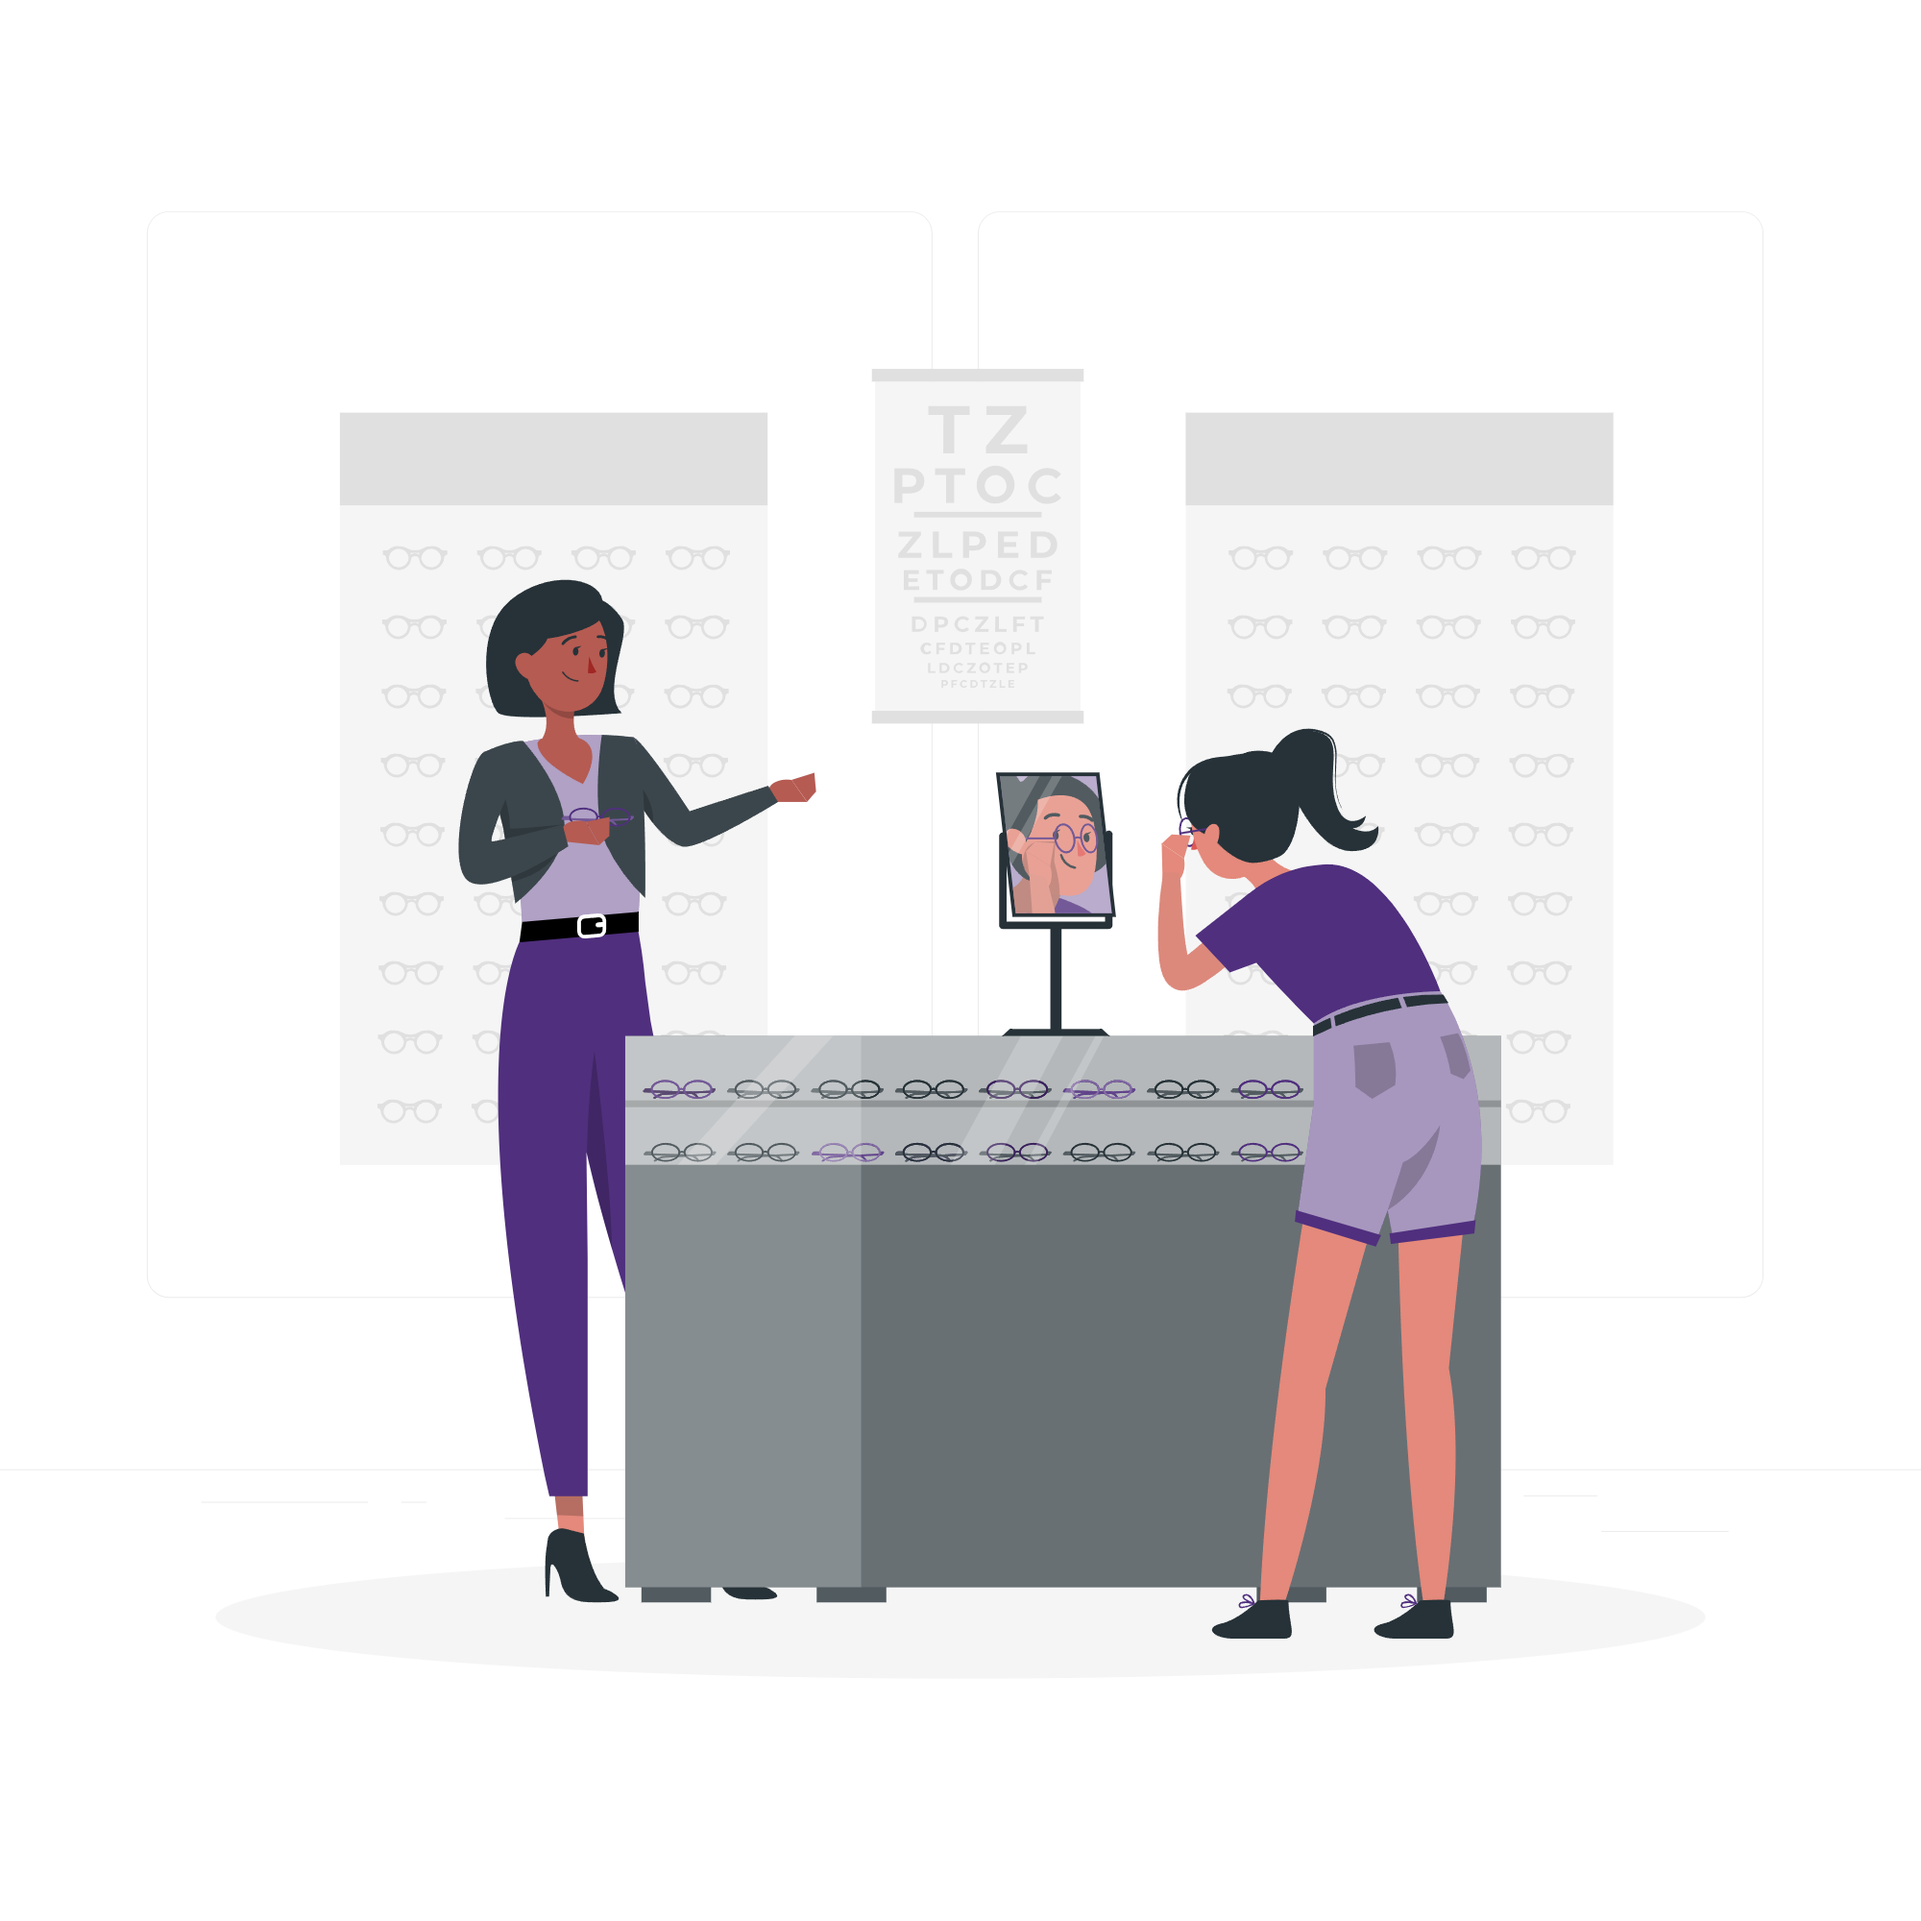
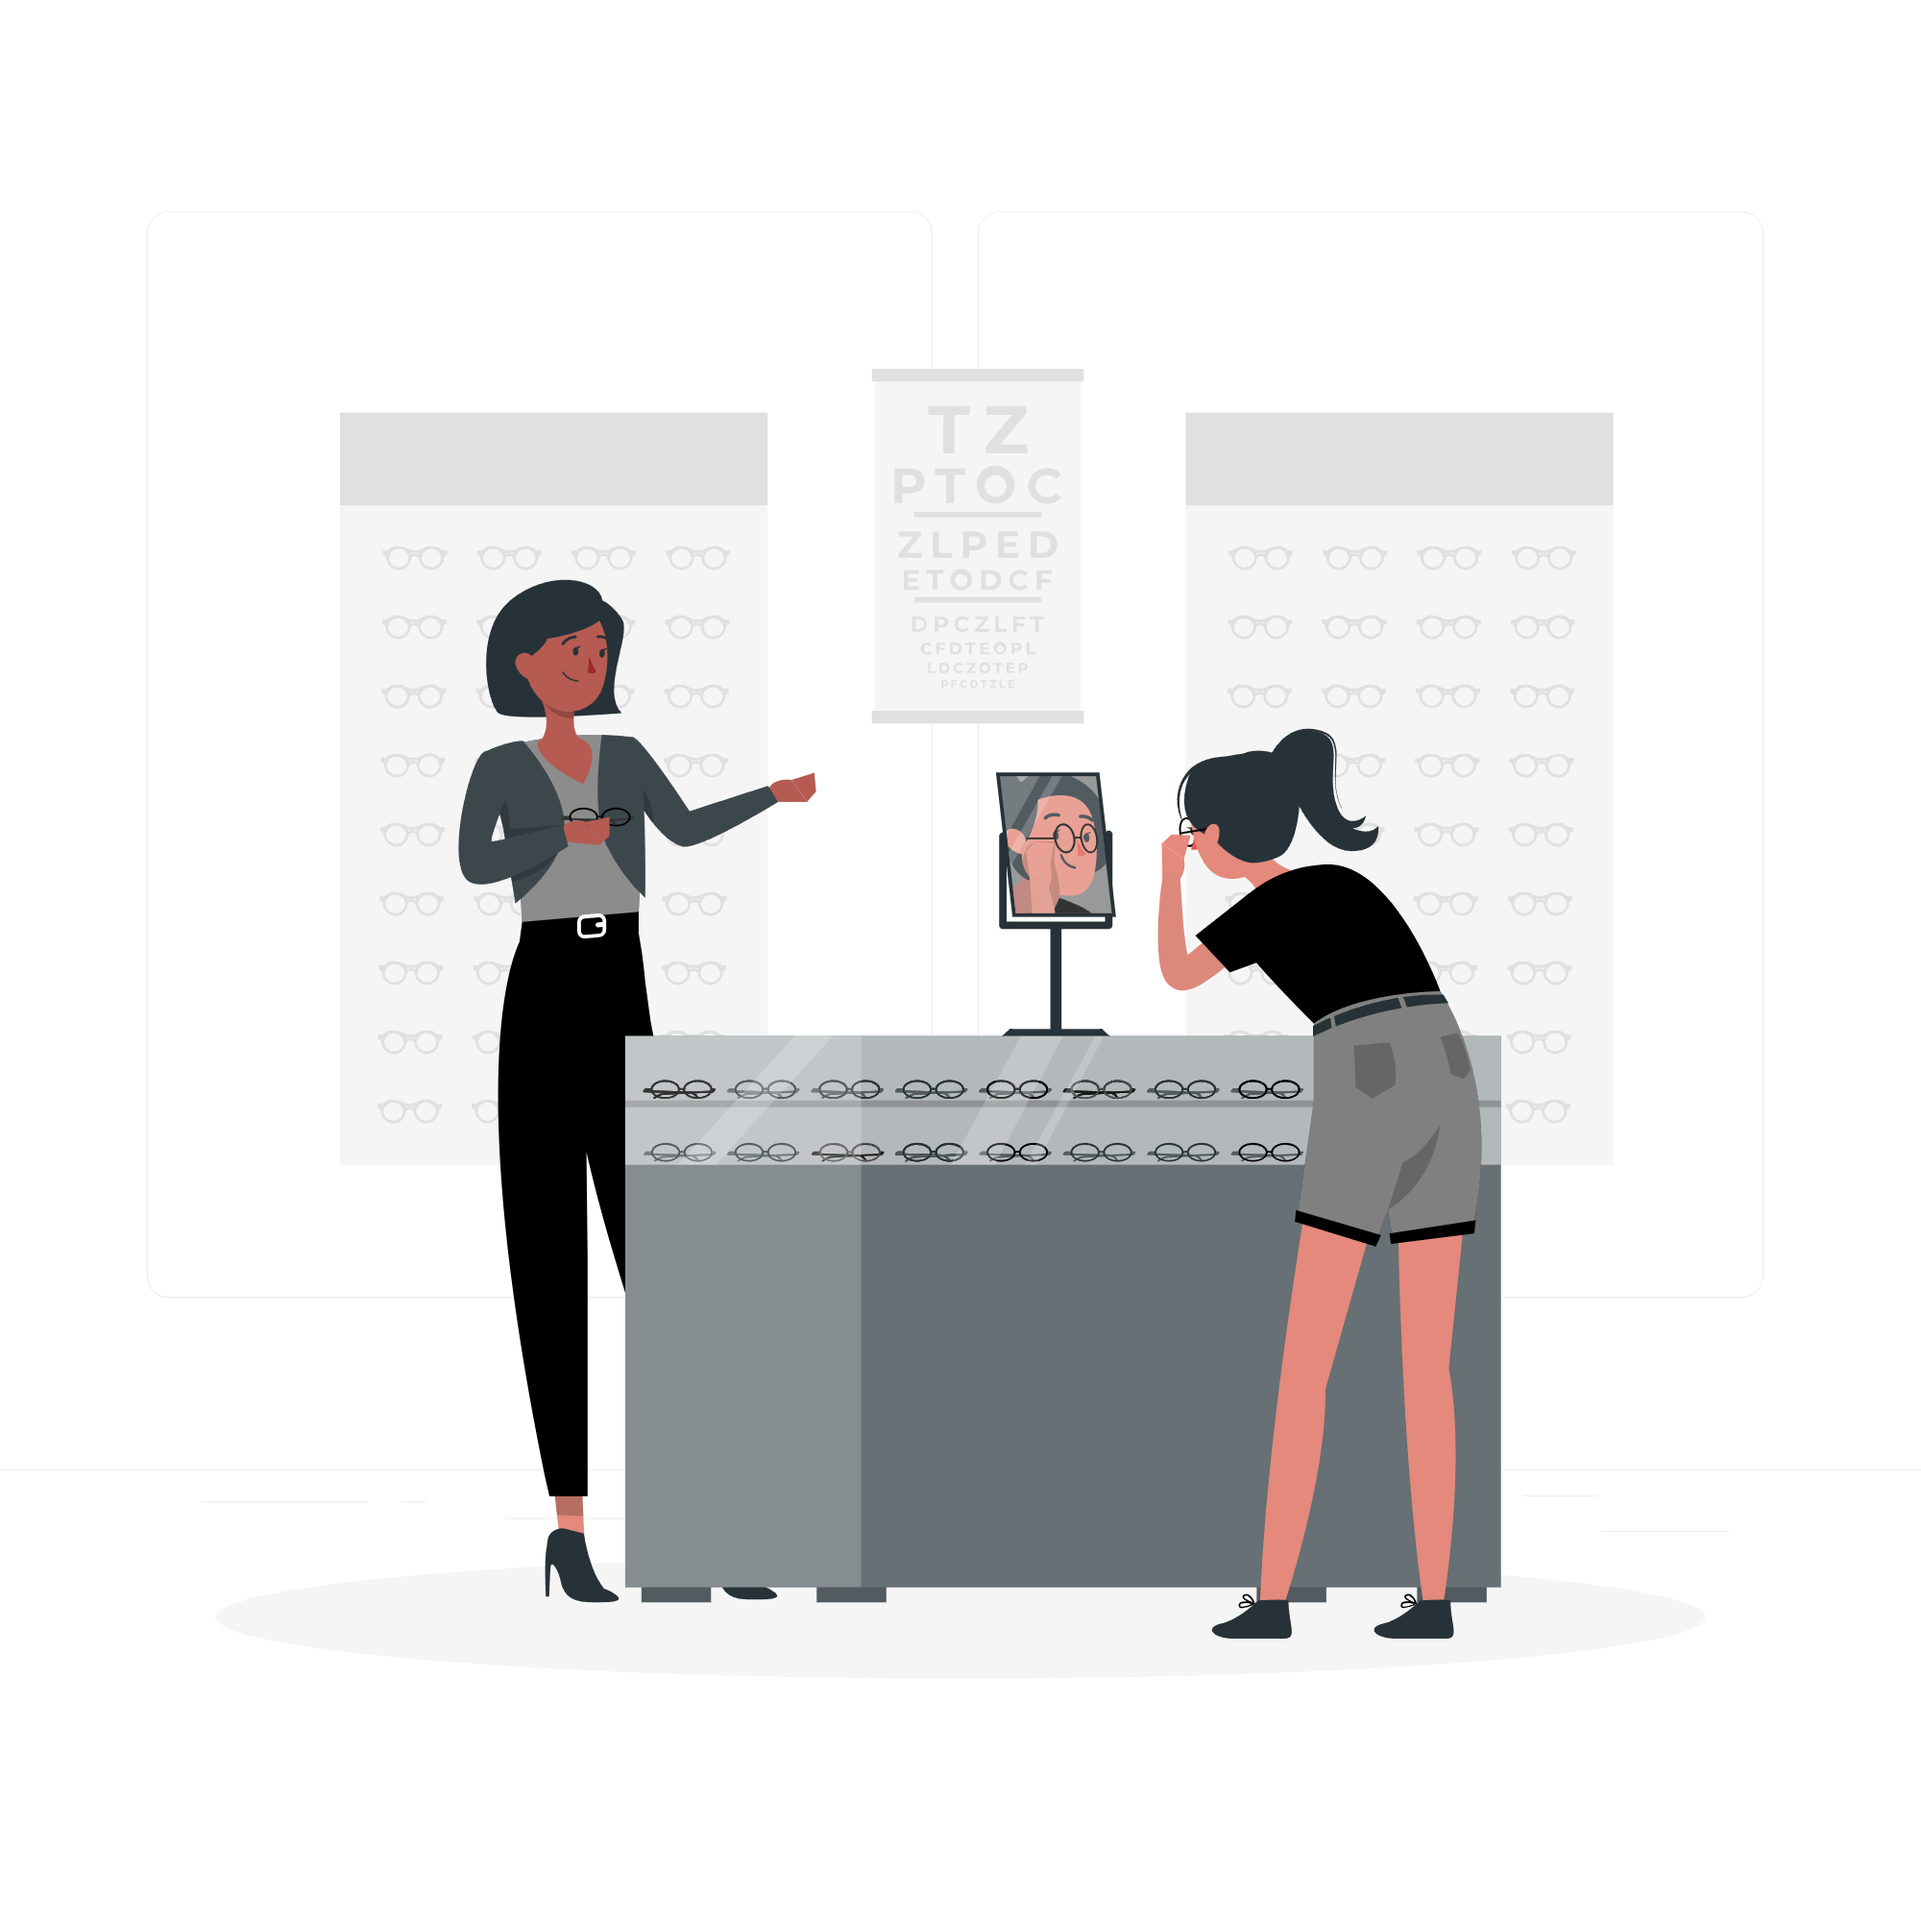
sales launch and design change

diff --git a/src/screens/home.js b/src/screens/home.js
@@ -1,44 +1,92 @@
-import React, { useEffect } from 'react';
-import { View, Image, StyleSheet, SafeAreaView, TouchableOpacity, ActivityIndicator } from 'react-native';
-import { getDBConnection } from '../services/database';
-import { useNavigation } from '@react-navigation/native';
+import React, { useState, useEffect } from 'react';
+import { View, Image, StyleSheet, SafeAreaView, TouchableOpacity, ActivityIndicator, Alert } from 'react-native';
+import { adicionarVenda, getDBConnection, obterIdMetaAtual, obterMetaComVendas } from '../services/database';
 import { Text } from 'react-native-gesture-handler';
 import colors from '../styles/colors';
-import NavigationBottom from '../components/navigationBottom'
-import { BottomTabBar } from '@react-navigation/bottom-tabs';
-import OpticalSet, { opticalSet } from '../components/opticalSet'
 
 export default function home({ }) {
-    return (
-        <SafeAreaView style={styles.container}>
-            <View style={styles.navbar} />
-            <View style={styles.card}>
-                <Text style={styles.cardTitle}>Resumo do Mês</Text>
-                <Text style={styles.cardItem}>Total: 10</Text>
-                <Text style={styles.cardItem}>Meta: 120</Text>
-                <Image source={require('../../assets/target.png')} style={styles.image} />
-            </View>
+   const [meta, setMeta] = useState({ id: null, quantidade: 0, totalVendas:0 });
+   const [mesAtual, setMesAtual] = useState('');
+   const [anoAtual, setAnoAtual] = useState(0);
+   const [mesNumero, setMesNumero] = useState('');
 
-            <Image source={require('../../assets/optical.png')} style={styles.opticalImage} />
+   useEffect(() => {
+       const date = new Date();
+       const meses = [
+           'Janeiro', 'Fevereiro', 'Março', 'Abril', 'Maio', 'Junho',
+           'Julho', 'Agosto', 'Setembro', 'Outubro', 'Novembro', 'Dezembro',
+       ];
+       setMesAtual(meses[date.getMonth()]);
+       setMesNumero((date.getMonth() + 1).toString());
+       setAnoAtual(date.getFullYear());
+   }, []);
 
-            {/* <OpticalSet style={{ flex: 1 }} /> */}
+   useEffect(() => {
+  
+       buscarMeta();
+   }, [mesNumero, anoAtual]);
 
-            <TouchableOpacity style={styles.button} >
-                <Text style={styles.buttonText}>Nova Venda</Text>
-            </TouchableOpacity>
-        </SafeAreaView>
-    )
+        const buscarMeta = async () => {
+           if (mesNumero && anoAtual) {
+               try {
+                   const db = await getDBConnection();
+                   const metaAtual = await obterMetaComVendas(db, mesNumero, anoAtual);
+                   setMeta(metaAtual);
+               } catch (error) {
+                   console.log('Erro ao buscar meta:', error);
+                   setMeta({ id: null, quantidade: 0 });
+               }
+           }
+       };
+
+   const handleNovaVenda = async () => {
+       try {
+           if (!meta.id) {
+               Alert.alert('Erro', 'Meta não encontrada para este mês');
+               return;
+           }
+           const db = await getDBConnection();
+           await adicionarVenda(db, meta.id);
+           Alert.alert('Nova venda adicionada com sucesso!');
+           buscarMeta()
+       } catch(err) {
+           console.log(err);
+           Alert.alert('Erro', 'Não foi possível adicionar a venda');
+       }
+   }
+
+   return (
+       <SafeAreaView style={styles.container}>
+           <View style={styles.card}>
+               <Text style={styles.cardTitle}>Resumo do Mês</Text>
+               <Text style={styles.cardItem}>Receitas: {meta.totalVendas}</Text>
+               <Text style={styles.cardItem}>Meta atual: {meta.quantidade}</Text>
+               <Text style={styles.cardItemPendente}>Pendente: {Math.max(0, meta.quantidade - meta.totalVendas)}</Text>
+               <Image source={require('../../assets/target.png')} style={styles.image} />
+           </View>
+
+           <Image source={require('../../assets/optical.png')} style={styles.opticalImage} />
+
+           <TouchableOpacity style={styles.button} onPress={handleNovaVenda} >
+               <Text style={styles.buttonText}>Registrar Venda</Text>
+           </TouchableOpacity>
+       </SafeAreaView>
+   )
 }
 
 const styles = StyleSheet.create({
     container: {
         flex: 1,
         backgroundColor: '#fff',
-        alignContent: 'center'
+        alignContent: 'center',
+        justifyContent: 'space-between',
     },
     card: {
-        backgroundColor: colors.purple_primary,
-        margin: 16,
+        backgroundColor: colors.black_primary,
+        marginLeft: 16,
+        marginBottom:16,
+        marginRight: 16,
+        marginTop: 10,
         borderRadius: 12,
         padding: 16,
         elevation: 2,
@@ -58,6 +106,12 @@ const styles = StyleSheet.create({
         marginBottom: 8,
         color: '#fff',
     },
+    cardItemPendente: {
+        fontSize: 14,
+        fontStyle: "italic",
+        marginBottom: 1,
+        color: '#fff',
+    },
     image: {
         width: 85,
         height: 85,
@@ -67,11 +121,11 @@ const styles = StyleSheet.create({
     },
     button: {
         margin: 16,
-        backgroundColor: colors.purple_primary,
+        backgroundColor: colors.black_primary,
         paddingVertical: 12,
         borderRadius: 12,
         alignItems: 'center',
-        top: '20%'
+        bottom: '0%'
     },
     opticalImage: {
         width: 300,

diff --git a/src/components/navigationBottom.js b/src/components/navigationBottom.js
@@ -1,15 +1,56 @@
 import { createBottomTabNavigator } from "@react-navigation/bottom-tabs";
+import Icon from 'react-native-vector-icons/Ionicons';
 import home from "../screens/home";
 import targetRegister from "../screens/targetRegister";
+import colors from "../styles/colors";
 
 const { Navigator, Screen } = createBottomTabNavigator();
 
 export function NavigationBottom(){
-
     return(
-        <Navigator screenOptions={{headerShown: false}}>
-            <Screen component = {home} name="Meta atual"/> 
-            <Screen component={targetRegister} name="Relatório"/>
+        <Navigator 
+            screenOptions={{
+                headerShown: false,
+                tabBarActiveTintColor: colors.black_primary, 
+                tabBarInactiveTintColor: '#9CA3AF',
+                tabBarStyle: {
+                    backgroundColor: '#FFFFFF',
+                    borderTopWidth: 1,
+                    borderTopColor: '#E5E7EB',
+                    height: 60,
+                },
+                tabBarLabelStyle: {
+                    fontSize: 12,
+                    fontWeight: '600',
+                },
+            }}
+        >
+            <Screen 
+                component={home} 
+                name="Meta atual"
+                options={{
+                    tabBarIcon: ({ focused, color, size }) => (
+                        <Icon 
+                            name={focused ? 'home' : 'home-outline'} 
+                            size={size} 
+                            color={color} 
+                        />
+                    ),
+                }}
+            /> 
+            <Screen 
+                component={targetRegister} 
+                name="Relatório"
+                options={{
+                    tabBarIcon: ({ focused, color, size }) => (
+                        <Icon 
+                            name={focused ? 'bar-chart' : 'bar-chart-outline'} 
+                            size={size} 
+                            color={color} 
+                        />
+                    ),
+                }}
+            />
         </Navigator>
     )
 }

diff --git a/src/services/database.js b/src/services/database.js
@@ -7,15 +7,25 @@ export const getDBConnection = async () => {
 };
 
 export const createTables = async (db) => {
-  await db.executeSql(`
-    CREATE TABLE IF NOT EXISTS meta (
+  const queries = [
+    `CREATE TABLE IF NOT EXISTS meta (
       id INTEGER PRIMARY KEY AUTOINCREMENT,
       mes TEXT NOT NULL,
       nome TEXT NOT NULL,
       ano INTEGER NOT NULL,
       quantidade INTEGER NOT NULL
-    );
-  `);
+    );`,
+    `CREATE TABLE IF NOT EXISTS venda (
+      id INTEGER PRIMARY KEY AUTOINCREMENT,
+      idMeta INTEGER,
+      dataVenda DATETIME DEFAULT CURRENT_TIMESTAMP,
+      FOREIGN KEY (idMeta) REFERENCES meta (id)
+    );`
+  ];
+
+  for (const query of queries) {
+    await db.executeSql(query);
+  }
 };
 
 export async function getTargetInOpen(db, mes, ano) {
@@ -31,9 +41,40 @@ export async function getTargetInOpen(db, mes, ano) {
   }
 }
 
+
+export async function obterMetaComVendas(db, mes, ano) {
+  try {
+    const [result] = await db.executeSql(
+      'SELECT id, quantidade, (SELECT COUNT(id) FROM venda WHERE idMeta = meta.id) as venda FROM meta WHERE mes = ? AND ano = ? LIMIT 1',
+      [mes.toString(), ano]
+    );
+    
+    if (result.rows.length > 0) {
+      const meta = result.rows.item(0);
+      return {
+        id: meta.id,
+        quantidade: meta.quantidade,
+        totalVendas: meta.venda
+      };
+    } else {
+      throw new Error('Meta não encontrada');
+    }
+  } catch (error) {
+    console.error('Erro ao buscar meta:', error);
+    throw error; 
+  }
+}
+
 export async function inserirMeta(db, { mes, nome, ano, quantidade }) {
     await db.executeSql(
     'INSERT INTO meta (mes, nome, ano, quantidade) VALUES (?, ?, ?, ?)',
     [mes, nome, ano, quantidade]
   );
+}
+
+export async function adicionarVenda(db, idMeta) {
+ await db.executeSql(
+   "INSERT INTO venda (idMeta, dataVenda) VALUES (?, datetime('now', 'localtime'));",
+   [idMeta]
+ );
 }

diff --git a/src/screens/targetRegister.js b/src/screens/targetRegister.js
@@ -12,11 +12,7 @@ import {
 } from 'react-native';
 import LinearGradient from 'react-native-linear-gradient';
 import { useNavigation } from '@react-navigation/native';
-import {
-    getDBConnection,
-    createTables,
-    inserirMeta,
-} from '../services/database';
+import { getDBConnection, createTables, inserirMeta } from '../services/database';
 import color from '../styles/colors'
 
 export default function targetRegister() {
@@ -72,10 +68,10 @@ export default function targetRegister() {
             style={styles.container}
             behavior={Platform.OS === 'ios' ? 'padding' : undefined}>
 
-            <LinearGradient colors={[color.purple_primary, color.purple_primary]} style={styles.header} />
+            <LinearGradient colors={[color.black_primary, color.black_primary]} style={styles.header} />
 
             <Text style={styles.monthText}>{mesAtual}</Text>
-            <Text style={styles.infoText}>Informações da Meta</Text>
+            <Text style={styles.infoText}></Text>
             <Image source={require('../../assets/target.png')} style={styles.image} />
 
             <View style={styles.card}>
@@ -166,7 +162,7 @@ const styles = StyleSheet.create({
         color: '#333',
     },
     button: {
-        backgroundColor: color.purple_primary,
+        backgroundColor: color.black_primary,
         paddingVertical: 12,
         borderRadius: 12,
         alignItems: 'center',

diff --git a/src/screens/splash.js b/src/screens/splash.js
@@ -2,6 +2,7 @@ import React, { useEffect } from 'react';
 import { View, Image, StyleSheet, ActivityIndicator, Text } from 'react-native';
 import { getDBConnection, createTables, getTargetInOpen } from '../services/database';
 import { useNavigation } from '@react-navigation/native';
+import colors from '../styles/colors';
 
 export default function splash(){
 
@@ -45,7 +46,7 @@ export default function splash(){
 const styles = StyleSheet.create({
   container: {
     flex: 1,
-    backgroundColor: '#502F7E',
+    backgroundColor: colors.black_primary,
     justifyContent: 'center',
     alignItems: 'center',
   },

diff --git a/src/main.js b/src/main.js
@@ -16,7 +16,7 @@ function App() {
 
   return (
     <>
-    <StatusBar backgroundColor={colors.purple_primary}/>
+    <StatusBar backgroundColor={colors.black_primary}/>
      <NavigationContainer>
       <Stack.Navigator initialRouteName="Splash" screenOptions={{ headerShown: false }}>
         <Stack.Screen name="Splash" component={splash} />

diff --git a/src/styles/colors.js b/src/styles/colors.js
@@ -1,5 +1,6 @@
 const colors = {
-    purple_primary: '#502F7E'
+    purple_primary: '#502F7E',
+    black_primary: '#000000ff'
 }
 
 export default colors;
